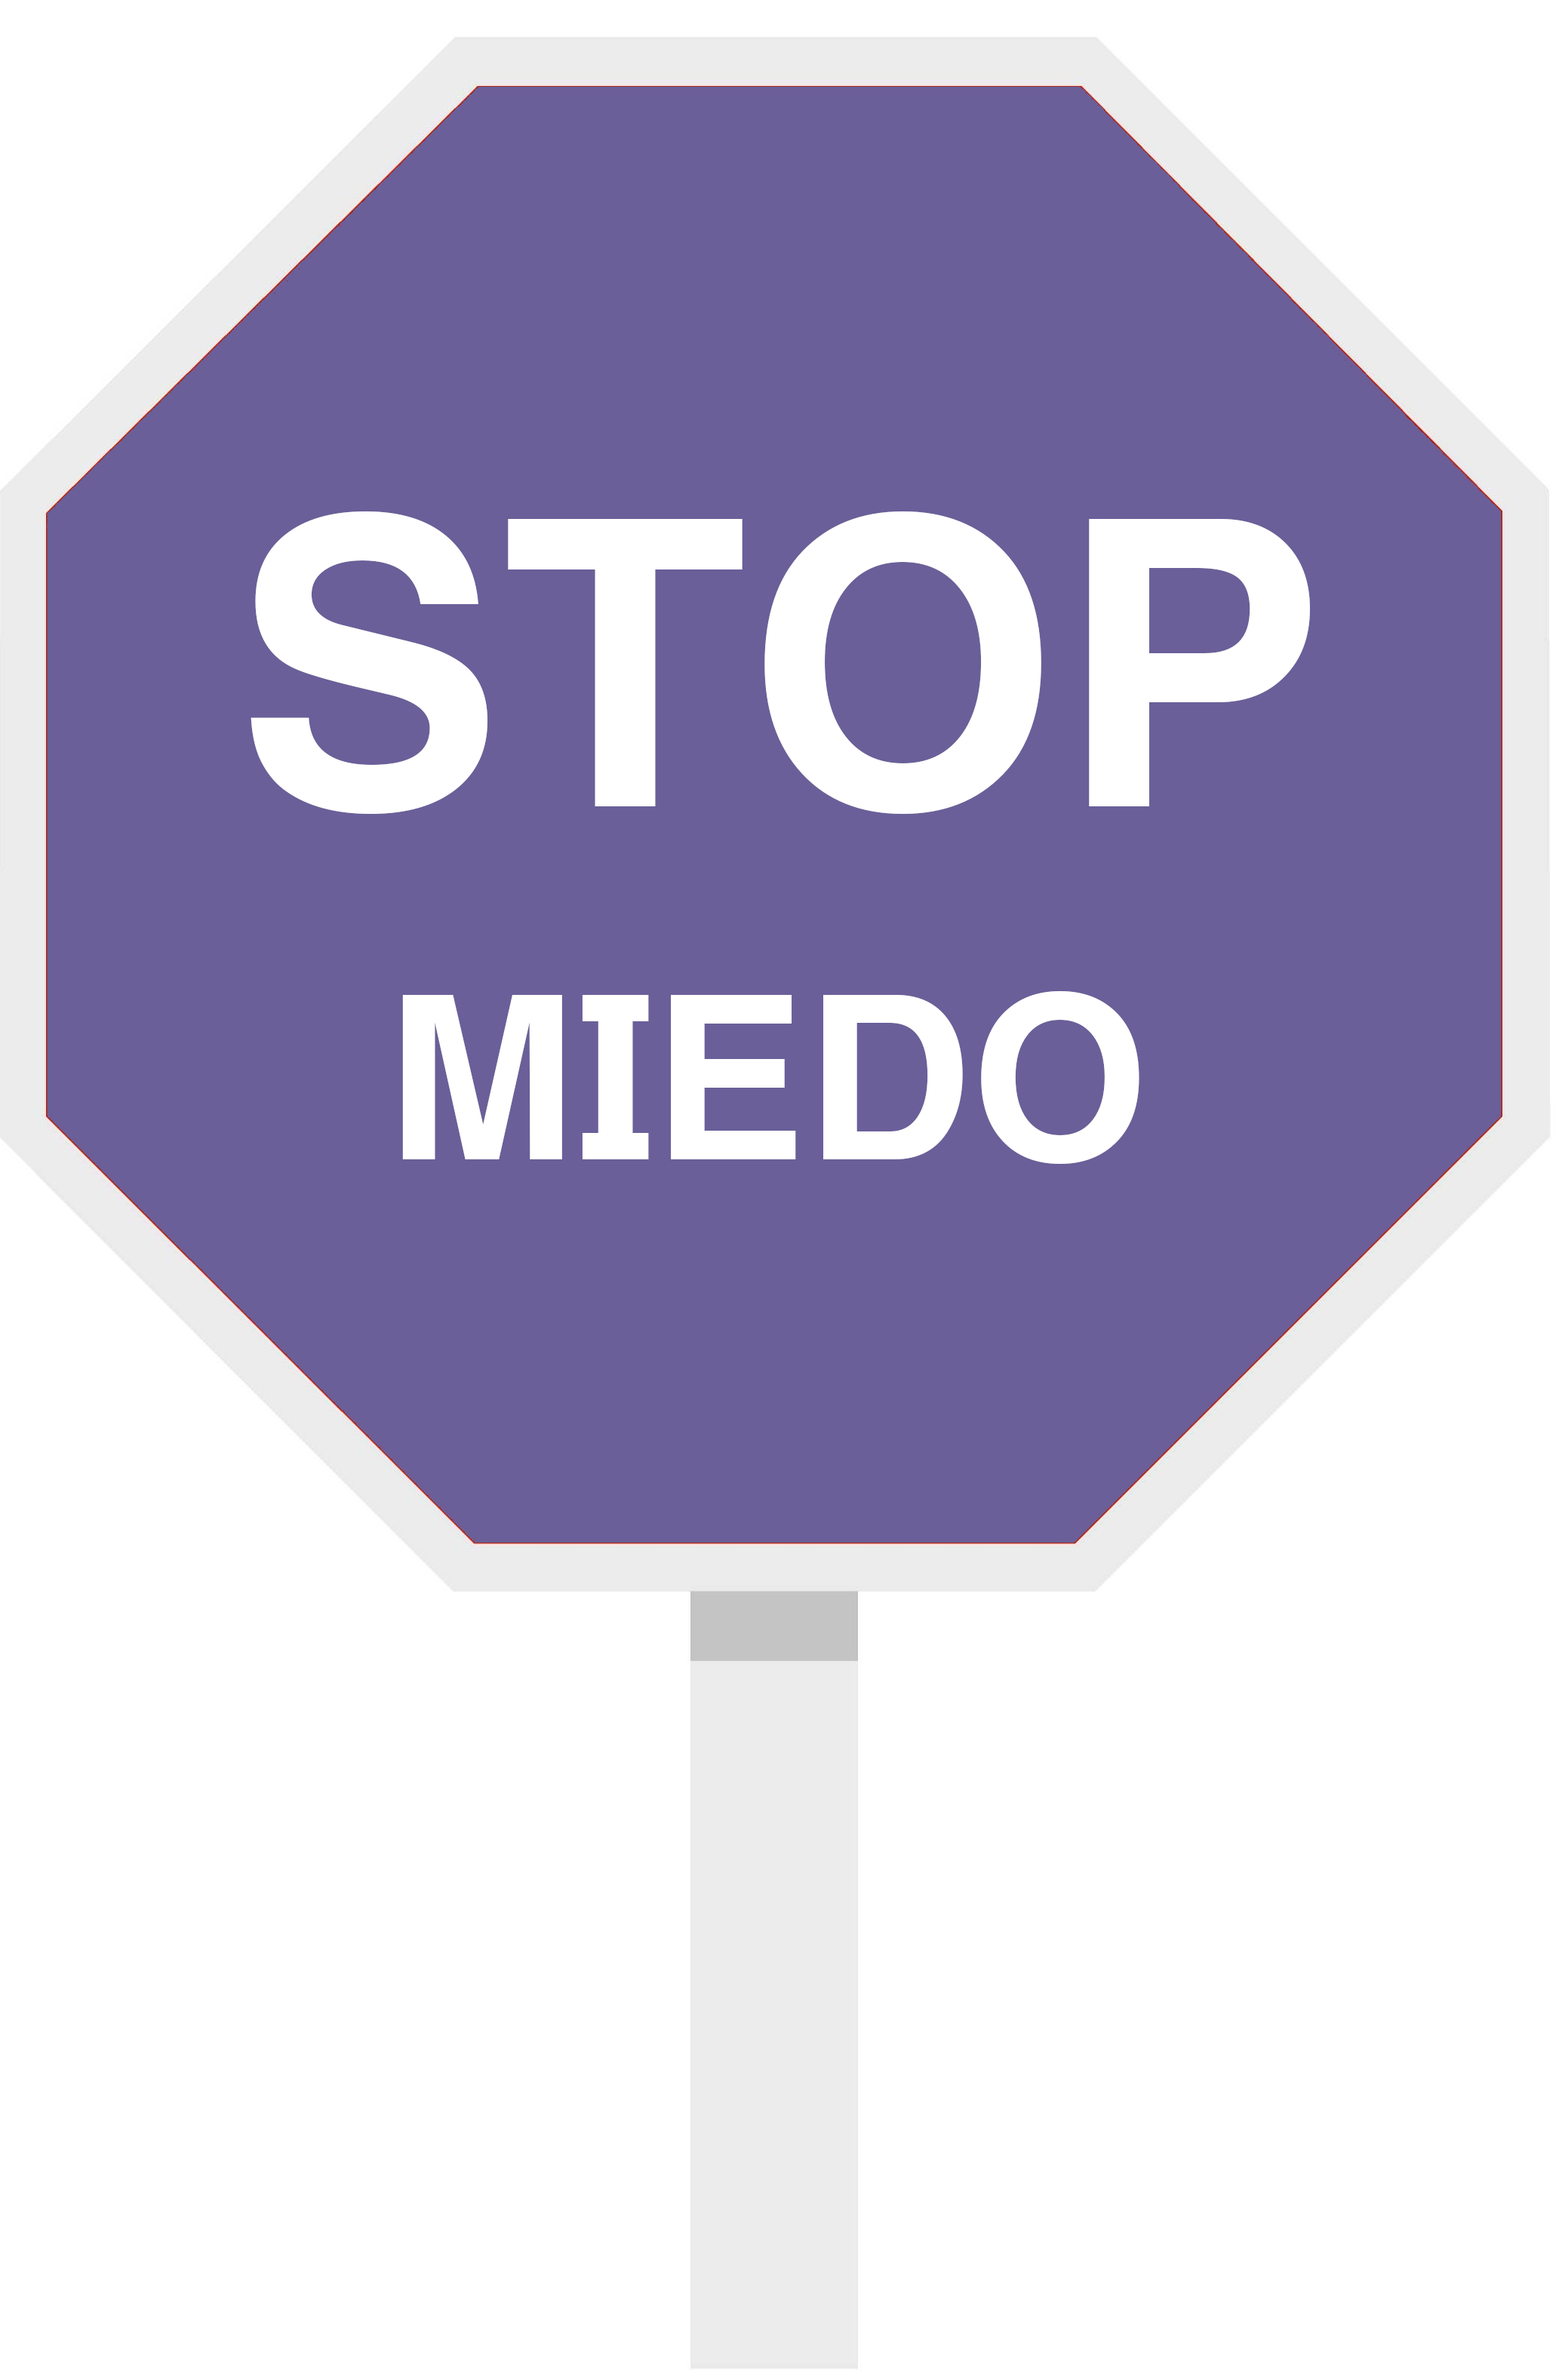
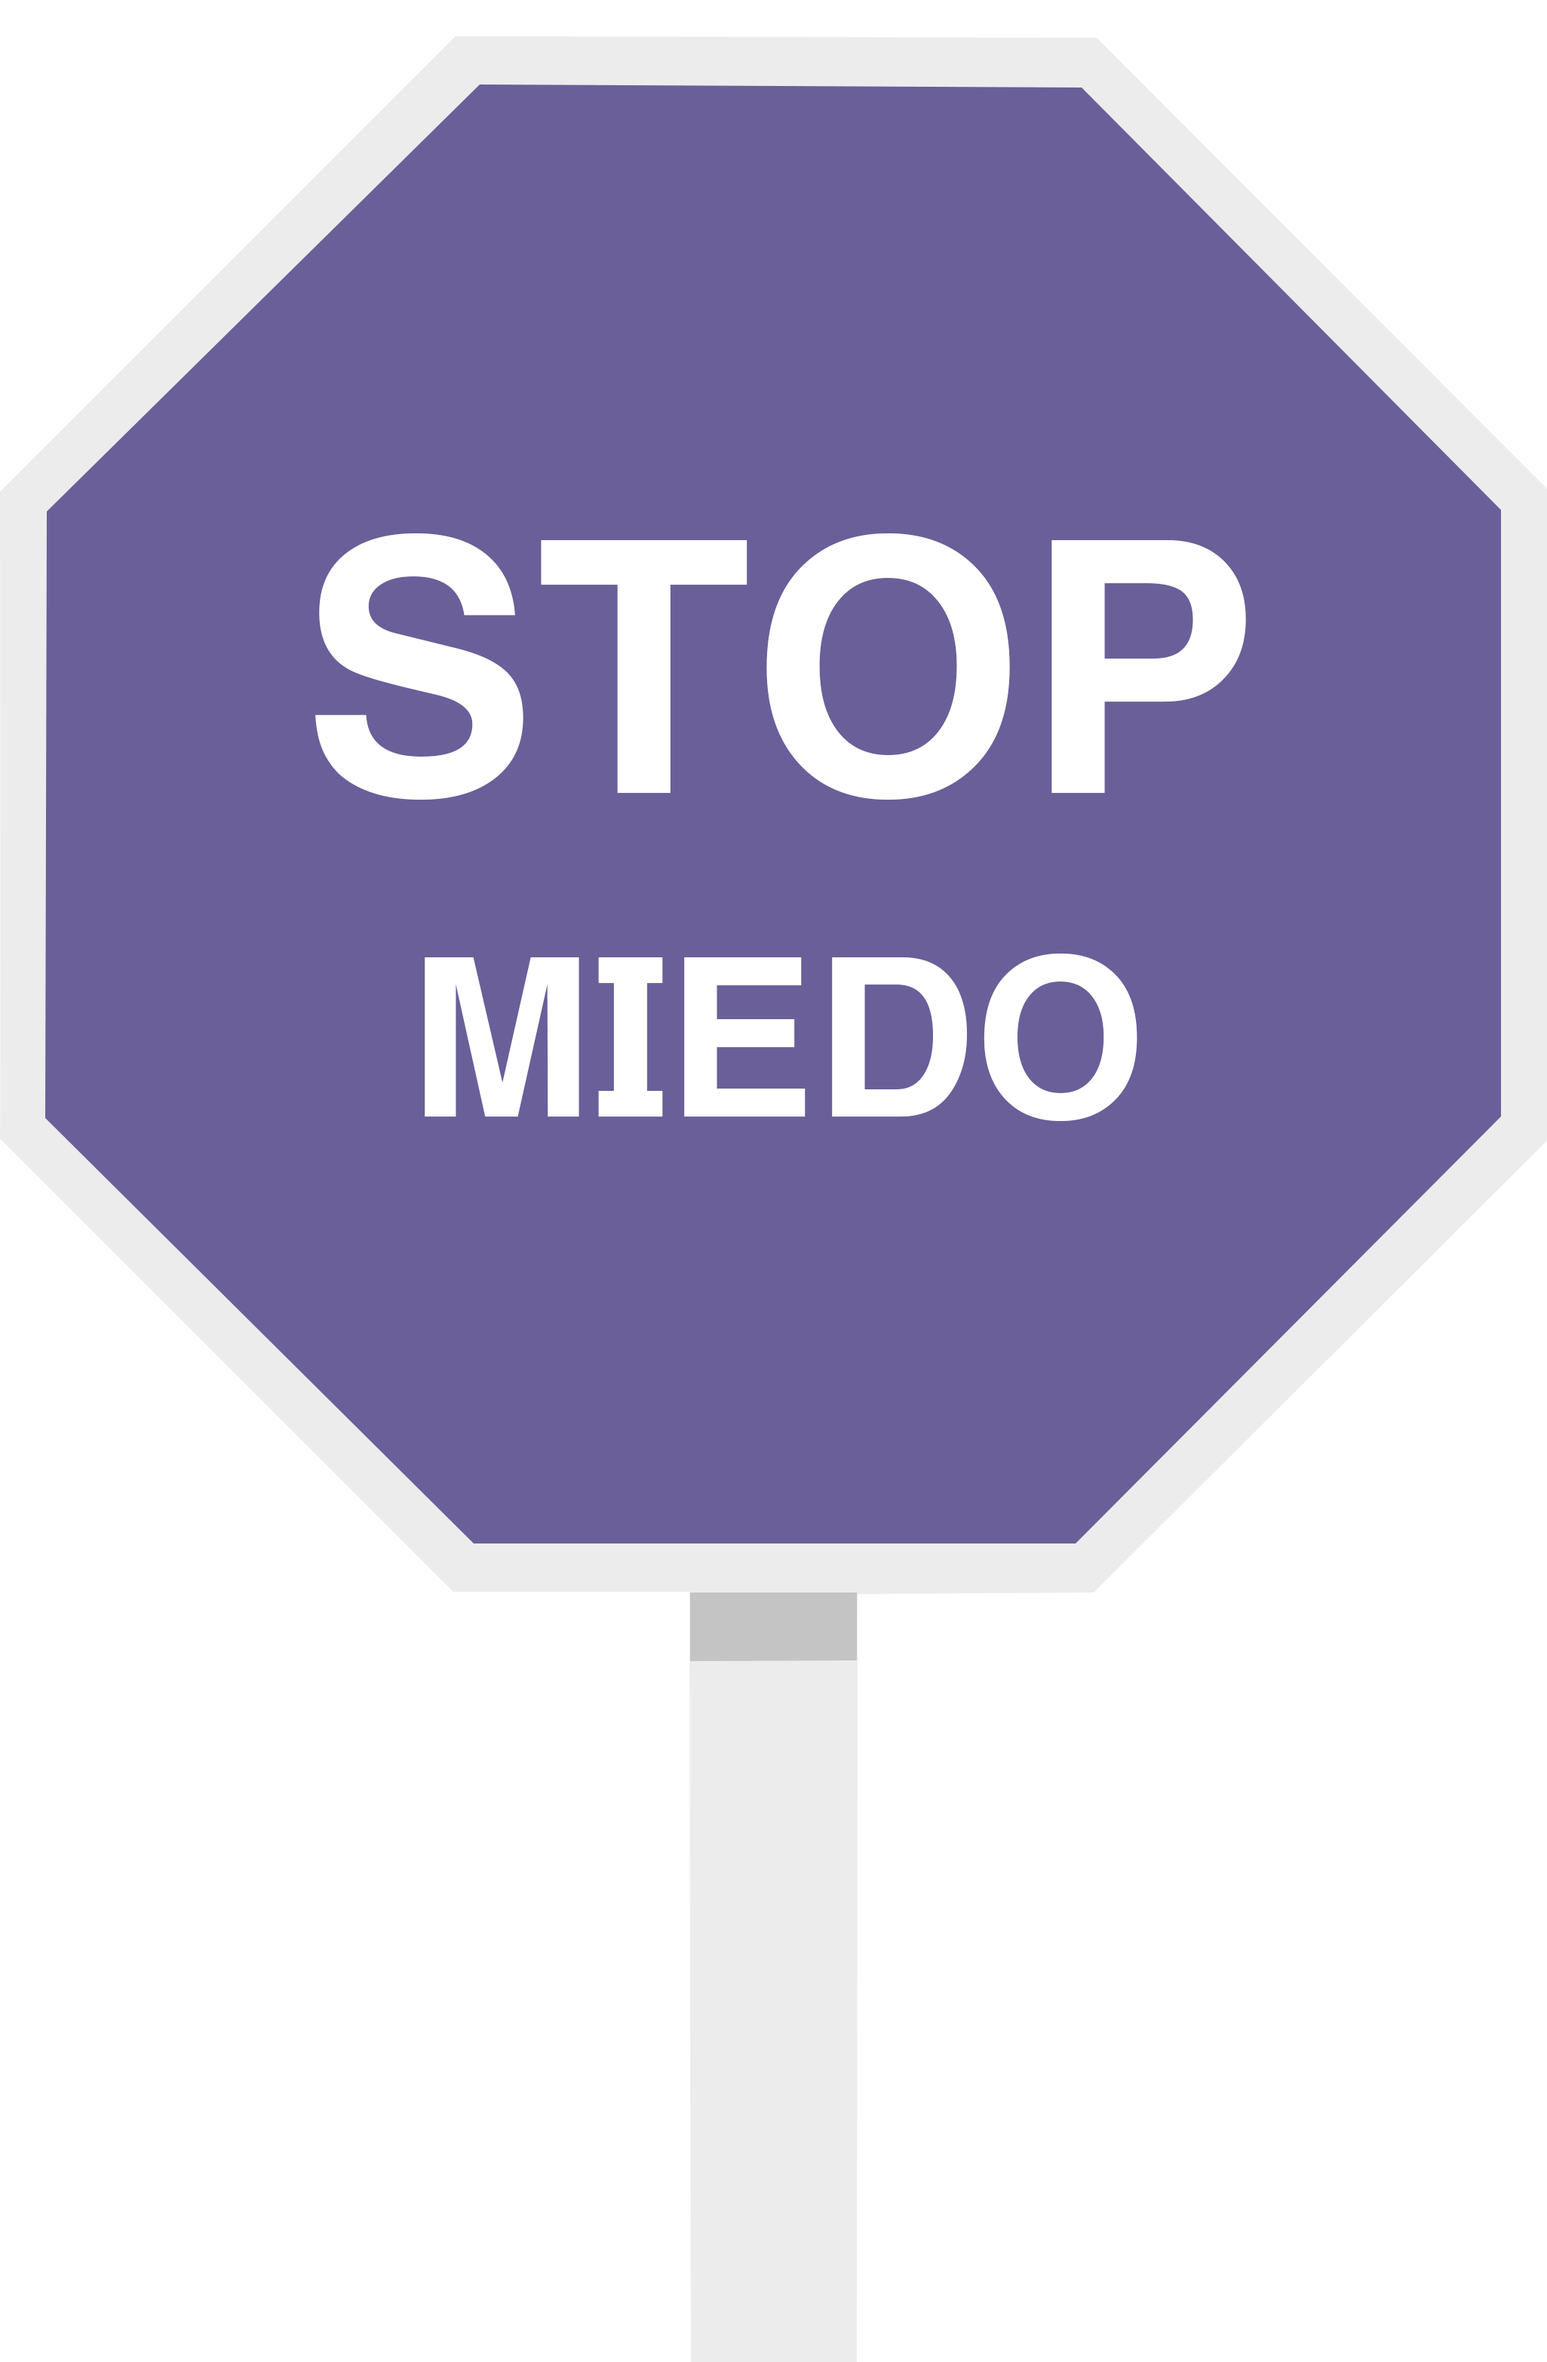
Added screenshots. Updated stop.png

diff --git a/README.md b/README.md
@@ -1,6 +1,92 @@
-# TFG APP
+<img src="mobile_app/assets/images/stop.png" align="right" height="248" />
 
->Implementación de una aplicación móvil que, basándose en el método terapéutico de la __desensibilización sistemática__, pueda ayudar a las personas que sufren amaxofobia a acabar con la ansiedad al volante. 
+# STOPMiedo
 
-## Herramientas utilizadas 🛠
-- Flutter 1.9.1
+
+STOPMiedo es una herramienta que pretende ayudar a las personas que sufren amaxofobia, o miedo a conducir, a superar la ansiedad al volante, mediante la aplicación del método terapéutico de la __Desensibilización Sistemática (DS)__.
+
+<p align="center">
+    <a href="https://github.com/SergioGonzalezVelazquez/TFG_app/commits/" title="Last Commit"><img src="https://img.shields.io/github/last-commit/SergioGonzalezVelazquez/TFG_app?style=plastic"></a>
+    <a href="https://github.com/SergioGonzalezVelazquez/TFG_app/issues" title="Open Issues"><img src="https://img.shields.io/github/issues/SergioGonzalezVelazquez/TFG_app?style=plastic"></a>
+</p>
+## Descripción
+El sistema está formado por una plataforma _backend_ en __Firebase__ y una aplicación cliente para _smartphone_ desarrollada con __Flutter__, que guia al usuario en las diferentes fases de la terapia. 
+
+Durante las primeras sesiones de uso de la app, la persona que sufre amaxofobia tendrá que responder a un cuestionario previo y, mantener una serie de conversaciones con un terapeuta virtual (__agente conversacional__). Esta primera fase permite conocer el contexto o situación de origen de la amaxofobia en cada paciente concreto, lo cual es necesario para, después, poder elegir el tratamiento más apropiado para cada usuario.
+
+Dicho tratamiento consiste en la exposición, de manera progresiva, a una serie de situaciones (relacionadas con la conducción) que producen ansiedad en el usuario. El sistema, además, genera un conjunto de informes que permiten llevar un registro de los ejercicios de exposición que ha realizado el paciente, así como un control de la evolución de la ansiedad del usuario durante la exposición a cada situación temida.
+
+Teniendo en cuenta que las situaciones de ansiedad y pánico (como las que sufren las personas que padecen amaxofobia) provocan síntomas físicos como sudoración, cambios en el ritmo respiratorio, vértigos o náuseas, el sistema complementa el proceso de DS con información
+del estado fisiológico de la persona sometida a terapia. Dicho estado fisiológico, se obtiene mediante mecanismos de sensorización embebidos o conectados al smartphone (__Xiaomi Mi Band 2/3__).
+
+Por otro lado, el sistema también cuenta con un __módulo que reconoce implícitamente eventos relacionados con la conducción__, tales como el inicio y detección de la marcha, frenazos o acelerones. Esta información, combinada con el estado fisiológico del conductor, resulta muy útil para analizar el comportamiento de pacientes que sufren ansiedad durante la conducción.
+
+El esquema general de la siguiente figura representa gráficamente los diferentes componentes del sistema y las tecnologías utilizadas.
+
+<p align="center">
+	<img src="/img/esquema_general.png">
+</p>
+
+
+## Imágenes
+
+### Agente conversacional
+
+<p align="center">
+  <img src="/img/device-chat1.png" width="200" > <img src="/img/device-chat4.png" width="200"> <img src="/img/device-chat7.png" width="200">
+</p>
+
+
+### Desensibilización Sistemática
+<p align="center">
+  <img src="/img/device-jerarquia1.png" width="200" > <img src="/img/device-ejercicios1.png" width="200"> <img src="/img/device-ejercicio1.png" width="200">
+</p>
+
+<p align="center">
+  <img src="/img/device-expoCuest1.png" width="200" > <img src="/img/device-expoCuest4.png" width="200"> <img src="/img/device-expo12.png" width="200">
+</p>
+
+
+### Evolución del paciente
+
+<p align="center">
+  <img src="/img/device-informe0.png" width="200" > <img src="/img/device-informe1.png" width="200"> <img src="/img/device-informe2.png" width="200">
+</p>
+
+<p align="center">
+  <img src="/img/device-informe3.png" width="200" > <img src="/img/device-progreso1.png" width="200"> <img src="/img/device-progreso5.png" width="200">
+</p>
+
+### Detección ímplicita de eventos durante la conducción
+
+<p align="center">
+  <img src="/img/device-2020-07-07-193945.png" width="200" > <img src="/img/device-pulsaciones5.png" width="200"> <img src="/img/device-autodrive-route3.png" width="200">
+</p>
+
+
+### Monitorización del ritmo cardíaco
+
+<p align="center">
+  <img src="/img/device-pulsaciones4.png" width="200" >  <img src="/img/device-pulsaciones10.png" width="400">
+</p>
+
+
+## Requisitos
+Los requisitos mínimos para que la aplicación de STOPMiedo funcione correctamente son:
+- Dispositivo _Android 5.0_ o superior.
+- Acceso a Internet para la sincronización de datos de la aplicación.
+- Al menos 33.6MB de espacio disponible para la instalación de la _app_.
+
+Adicionalmente, para poder disfrutar de todas las funcionalidades que ofrece STOPMiedo, es
+necesario disponer de:
+- Pulsera de seguimiento de actividad física _Xiaomi Mi Band_ 2 o _Xiaomi Mi Band_ 3.
+- _Bluetooth_ 4.0 o superior.
+
+## Herramientas 
+- Flutter 1.22.0 
+- Dart 2.10.0
+- Firebase
+- Dialogflow
+
+
+
